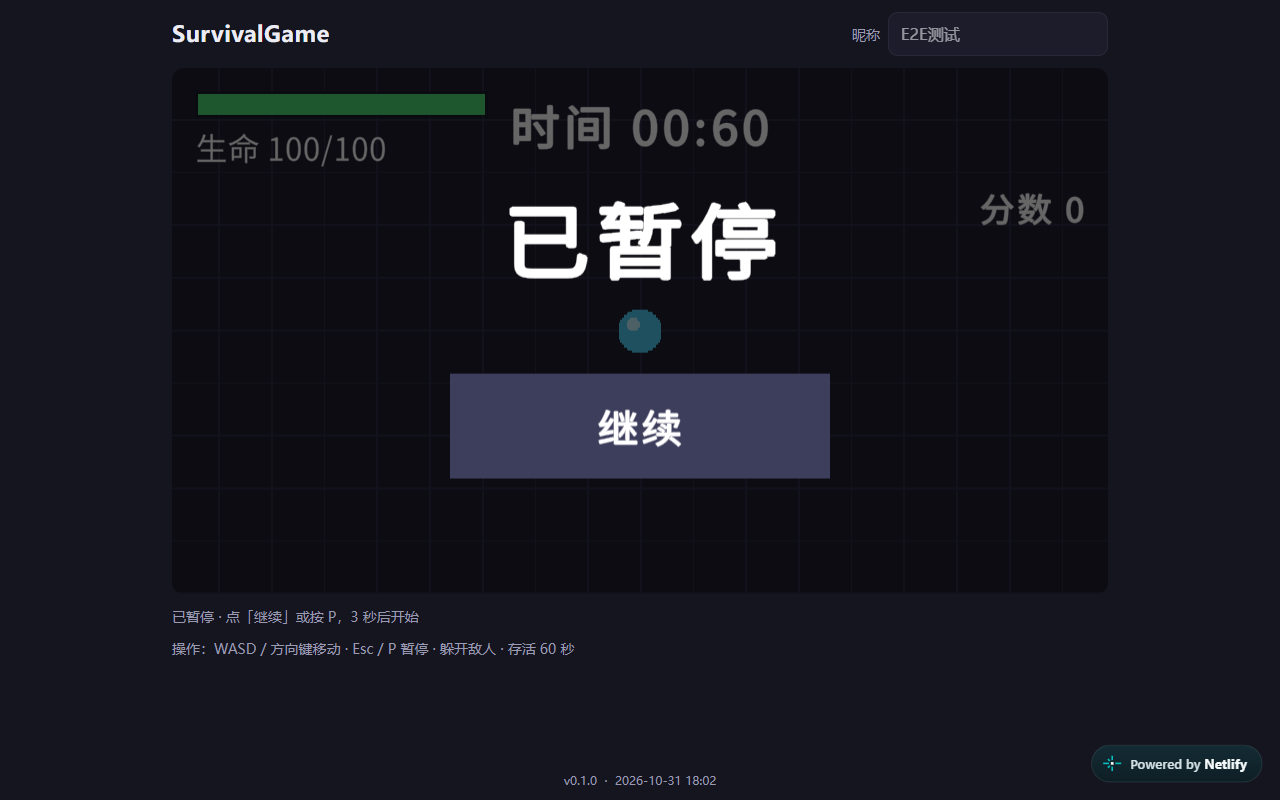
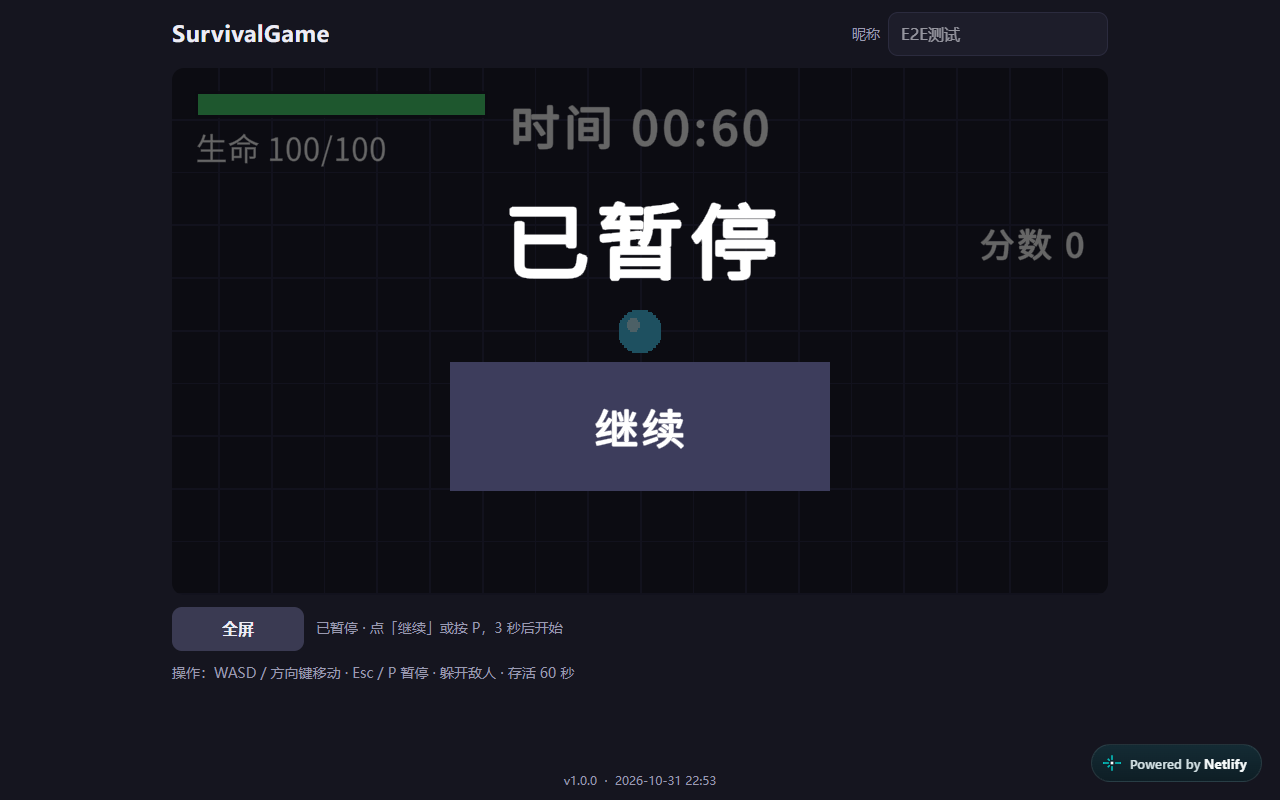
docs(m5): Netlify 部署 1.0.0（deploy 6ae6d3d1）并更新线上证据/文档

diff --git a/docs/acceptance.md b/docs/acceptance.md
@@ -30,7 +30,8 @@
 
 | 平台 | 浏览器 | 状态 | 日期 | 备注 |
 |---|---|---|---|---|
-| Windows | Chrome 最新 | ✅ | 2026-10-31 | 线上 M4.6（deploy `6ae5bd3b…`）：Esc/P、失焦保持暂停→主动恢复 3-2-1、3 局结算/刷新、结算按钮首屏可见，PASS |
+| Windows | Chrome 最新（线上 1.0.0） | ✅ | 2026-11-01 | Netlify deploy `6ae6d3d1…`，1.0.0 / `2026-10-31T14:53:47Z`；无头 smoke 1 局 PASS（加载→失焦保持暂停→主动恢复 3-2-1→结算→刷新），console 0 error |
+| Windows | Chrome 最新（线上 M4.6） | ✅ | 2026-10-31 | 线上 M4.6（deploy `6ae5bd3b…`）：Esc/P、失焦保持暂停→主动恢复 3-2-1、3 局结算/刷新、结算按钮首屏可见，PASS |
 | Windows | Edge 最新 | ✅ | 2026-10-31 | 线上 M4.6：加载、开始、Esc/P、失焦保持暂停→主动恢复、1 局结算、刷新，PASS |
 | Windows | Firefox 最新 | ✅ | 2026-10-31 | 线上 M4.6 一局 PASS（Firefox 跳过失焦自动化；早期 wasm MIME 失败为瞬时问题） |
 | macOS | Safari 最新 | ⏳ 待测 | — | 有设备则测 |
@@ -105,6 +106,10 @@
 - **交付物**：build 提交 `f19fcb79`（`web/unity/**` 入库）；Release `v1.0.0`（附件 9,433,571 字节，
   sha256 `dccc7bf6…`，公开下载校验一致）；干净克隆 main → 自带 `start-local.sh` 起服务 → 加载/开始/Playing，console 0 error。
   详见 `docs/M5-执行记录.md`。
+- **线上 1.0.0 部署**：Netlify deploy `6ae6d3d110461e4c04a7a2cc`（2026-11-01），线上 `build-info` 已核对为
+  `1.0.0 / 2026-10-31T14:53:47Z`；经代理跑无头 smoke 1 局 **PASS**（console 0 error，summary
+  `e2e-online-chrome-desktop-summary.json`，finishedAt `2026-11-01T05:57:33Z`）。
+  国内网络仍慢/不稳定，国内主链接仍待 CloudBase。
 
 ## 4. 未关闭项
 
@@ -112,8 +117,8 @@
 2. **人工 5 局平衡基线未测**：用户此前决定延后到难度分级之后；未做正式统计，不能宣称难度达标。
 3. **真机未测**（Honor 90 Pro / iPhone Safari）：触控跟手、HUD 可读、安全区、横竖屏、帧率均未测；
    目前只有浏览器视口证据。Honor 90 Pro 线上加载受阻（2026-10-31），先局域网确认设备侧，见 `docs/遗留问题.md` 第 6 节。
-4. **最终构建未上线**：线上 Netlify 仍是 M4.6 构建（`2026-10-31T10:02:10Z`，deploy `6ae5bd3b…`）；
-   1.0.0 构建已入库并发布 Release，但**国内托管未做、Netlify 未更新**，不能宣称「线上可玩最终版」。
+4. **国内托管未做**：Netlify 已更新为 1.0.0（deploy `6ae6d3d1…`，无头 smoke 1 局 PASS），
+   但国内 4G 直连仍慢/不稳定；README 的国内链接只能写「待定」，不能宣称「手机 4G 可玩」。
 5. **正式美术 / 音效**：仍是占位圆点 + 网格。
 6. **加载性能**：约 9 MB/次；Netlify 国内实测很慢（首次 50～61s），国内托管方案见 `docs/部署与托管.md`。
 7. **M4.5 §2/§3**：暂停菜单「重新开始」、Unity 主菜单 + 难度未做（不阻塞交付）。全屏 §1 已完成。
@@ -121,8 +126,8 @@
 ## 5. 结论
 
 - 17 条中 1–4、6–15、17 已验收；第 5 条功能已实现但**人工 60 秒未测**；第 16 条视口级已验收、**真机未测**。
-- 最终构建 **1.0.0**（`2026-10-31T14:53:47Z`，无水印）已入 `main`（build `f19fcb79`）并发布
-  Release `v1.0.0`；干净克隆可运行。
-- 线上 Netlify 仍是 M4.6 构建；**国内托管未做**，在线链接只能标「待定」。
+- 最终构建 **1.0.0**（`2026-10-31T14:53:47Z`，无水印）已入 `main`（build `f19fcb79`）、发布
+  Release `v1.0.0`，并部署到 Netlify（deploy `6ae6d3d1…`，Chrome 无头 smoke PASS）；干净克隆可运行。
+- **国内托管未做**，国内在线链接只能标「待定」；Netlify 国内访问慢/不稳定，仅作海外备份。
 - **不能宣称 M4/M5 收口**：人工 60 秒、5 局基线、Honor 90 Pro / iPhone 真机仍未做。
 - M5-5 人工门禁在最终构建上执行后，把日期/设备/结果补进本文件。

diff --git a/docs/M5-执行记录.md b/docs/M5-执行记录.md
@@ -114,6 +114,15 @@
 | 发现并修复 | `start-local.sh` 原来优先 `python3`：Windows 上会命中 Microsoft Store 的别名占位符（存在但执行即退出 49），导致脚本静默不起服务。改为 `command -v` + `python3 -c "import sys"` 双重验证后再选解释器，`python` 回退同样验证 |
 | GitHub Release | **已创建并验证**：<https://github.com/moonsmile233/SurvivalGame/releases/tag/v1.0.0>（tag 指向 `main`，非 draft/prerelease）；附件 `SurvivalGame-web-1.0.0.zip` = 9,433,571 字节，公开下载 sha256 与本地一致（`dccc7bf6…`）；创建方式：`winget install GitHub.cli` + `gh auth login --web` + `gh release create` |
 
+### 线上部署 1.0.0（2026-11-01，用户同意）
+
+| 项 | 结果 |
+|---|---|
+| 部署 | `bash scripts/deploy-netlify.sh`（`npm_config_cache` 指到可写缓存），Netlify deploy `6ae6d3d110461e4c04a7a2cc`，27 个文件 / 上传 11 个，54.8s，Deploy is live |
+| 线上核验 | `https://survivalgame-demo.netlify.app/unity/build-info.json` = `1.0.0 / 2026-10-31T14:53:47Z`；首页 200 |
+| 线上 smoke | 经代理 `E2E_PROXY=http://127.0.0.1:7897`、无头 Chrome 1 局 **PASS**：加载 → 失焦保持暂停 → 主动恢复 3-2-1 → 结算/刷新，console 0 error；summary `docs/evidence/e2e-online-chrome-desktop-summary.json`（finishedAt `2026-11-01T05:57:33Z`） |
+| 说明 | Netlify 国内访问仍慢/不稳定，只作海外备份；国内主链接仍待 CloudBase |
+
 ## M5-1：国内托管（待用户操作）
 
 CloudBase 需要账号与实名，**执行方不代注册**。用户需要做：

diff --git a/docs/部署与托管.md b/docs/部署与托管.md
@@ -106,8 +106,8 @@ Honor 90 Pro 线上加载失败的根因先用「手机 + PC 同一 Wi-Fi 打局
 - **离线包/Release 已建**：<https://github.com/moonsmile233/SurvivalGame/releases/tag/v1.0.0>，
[1 lines of base64/hex data omitted]
   解压后 `start-local.bat` / `start-local.sh` 即可跑；Release 只是离线备份，不是运行必需。
-- **Netlify**：线上仍是 M4.6 构建（`2026-10-31T10:02:10Z`，deploy `6ae5bd3b…`）；
-  1.0.0 构建**尚未部署**，README 已按「海外备份、国内可能打不开或很慢」标注。
+- **Netlify**：已于 2026-11-01 更新为 1.0.0（deploy `6ae6d3d110461e4c04a7a2cc`，线上 `build-info` 核对
+  `1.0.0 / 2026-10-31T14:53:47Z`）；线上无头 smoke 1 局 PASS。国内访问仍慢/不稳定，只作海外备份。
 - **国内托管**：**未执行**（CloudBase 需要用户账号与实名；不能代注册）。国内在线链接**待定**，
   README 不得写「手机 4G 可玩」。
 - 手机真机（Honor 90 Pro / iPhone）仍未测；先局域网确认设备侧，再判断托管。

diff --git a/README.md b/README.md
@@ -7,8 +7,8 @@
 ## 试玩 / 下载
 
 - **国内在线试玩：待定（未上线）**。国内托管（腾讯云 CloudBase）尚未执行，手机 4G 直连能进游戏的链接**还不存在**。
-- **海外备份**：<https://survivalgame-demo.netlify.app>（Netlify；国内网络可能打不开或很慢。线上仍是 M4.6 构建
-  `2026-10-31T10:02:10Z`，本仓库的 1.0.0 最终构建待部署）。
+- **海外备份**：<https://survivalgame-demo.netlify.app>（Netlify；国内网络可能打不开或很慢。
+  线上已是 **1.0.0** 构建 `2026-10-31T14:53:47Z`，deploy `6ae6d3d1…`）。
 - **离线包**：<https://github.com/moonsmile233/SurvivalGame/releases/tag/v1.0.0> 的
[1 lines of base64/hex data omitted]
   解压后双击 `start-local.bat`（Windows）或运行 `sh start-local.sh`，打开 <http://localhost:8000>。
